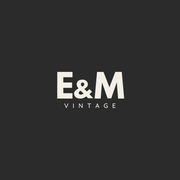
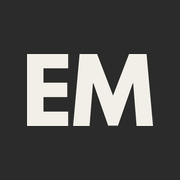
Rename the brand to EM
The ampersand and the word Vintage are gone from the wordmark, the page
titles, the footer, the photo caption and the comments. The Vinted handle
vintage-imparfait is untouched — it is an account name, not the brand.

The mark is not re-typeset: the E and the M are cut from the original logo
file at the coordinates measured in it, then set side by side with the same
letter gap the original used between its glyphs. The drawing, the weight and
the proportions are exactly those of the logo. The icons and the share image
are rebuilt from that mark, and the wordmark itself is kept as an asset.

Archivo's light weight only ever served the spaced VINTAGE capitals, so it is
dropped from the fonts loaded, and the hero's opening no longer waits for a
line that does not exist: the rule, the baseline and the brands each come in
about three tenths earlier.

Fixed while measuring: the first chapter starts exactly one screen down, so a
positive mount margin had its clip — over a megabyte since the move to 1080 —
downloading before a single scroll. The margin is negative now, and nothing
loads until the page is actually being read. Initial weight 362 KB against
996, Lighthouse mobile 95.

Claude-Session: https://claude.ai/code/session_01CeecgaP3zdLnK9r5rfFMhY

Changed region(s): [[0.1389, 0.2778, 0.8611, 0.7222]]

diff --git a/app/experience.css b/app/experience.css
@@ -26,21 +26,12 @@
 /* Le menu, lui, reste joignable dès le départ. Discret ne veut pas dire
    introuvable : sans lui, aucune navigation n'existe sur le premier écran.
    Il se pose simplement après l'intro, pour ne pas la couper. */
-.menu-btn { opacity: 0; animation: fade-in 0.7s ease 2.1s forwards; }
+.menu-btn { opacity: 0; animation: fade-in 0.7s ease 1.8s forwards; }
 :root[data-static] .menu-btn { opacity: 1; animation: none; }
 
 .masthead { left: var(--gutter); }
 .masthead__mark { display: flex; flex-direction: column; line-height: 1; }
 .masthead__em { font-family: var(--font-archivo), sans-serif; font-size: 17px; font-weight: 800; letter-spacing: -0.02em; }
-.masthead__vintage {
-  font-size: 7px;
-  font-weight: 300;
-  letter-spacing: 0.34em;
-  text-indent: 0.34em;
-  text-transform: uppercase;
-  opacity: 0.66;
-  margin-top: 2px;
-}
 
 .menu-btn {
   right: calc(var(--gutter) - 10px);
@@ -133,18 +124,6 @@
   animation: mark-open 0.72s var(--e-out) 0.1s forwards;
 }
 
-.mark__vintage {
-  font-family: var(--font-archivo), sans-serif;
-  margin-top: clamp(10px, 3vw, 18px);
-  font-size: clamp(0.66rem, 3.2vw, 1rem);
-  font-weight: 300;
-  text-transform: uppercase;
-  letter-spacing: 0.06em;
-  text-indent: 0.06em;
-  opacity: 0;
-  animation: vintage-open 0.9s var(--e-out) 0.62s forwards;
-}
-
 .hero__rule {
   display: block;
   width: min(62vw, 300px);
@@ -153,13 +132,13 @@
   background: currentColor;
   opacity: 0.28;
   transform: scaleX(0);
-  animation: rule-open 0.9s var(--e-out) 1s forwards;
+  animation: rule-open 0.9s var(--e-out) 0.72s forwards;
 }
 
 .hero__baseline {
   font-size: clamp(1.05rem, 4.8vw, 1.5rem);
   opacity: 0;
-  animation: rise 0.8s var(--e-out) 1.32s forwards;
+  animation: rise 0.8s var(--e-out) 1s forwards;
 }
 
 .hero__brands {
@@ -175,7 +154,7 @@
   letter-spacing: 0.16em;
   text-transform: uppercase;
   opacity: 0;
-  animation: fade-in 0.9s ease 1.72s forwards;
+  animation: fade-in 0.9s ease 1.35s forwards;
 }
 .hero__brands li { opacity: 0.58; }
 
@@ -189,13 +168,12 @@
   align-items: center;
   gap: 9px;
   opacity: 0;
-  animation: fade-in 0.8s ease 1.9s forwards;
+  animation: fade-in 0.8s ease 1.6s forwards;
 }
 .hero__hint-label { font-size: 9px; opacity: 0.5; }
 .hero__hint-line { width: 1px; height: 30px; background: currentColor; opacity: 0.3; transform-origin: top; animation: hint 2.4s ease-in-out 2.4s infinite; }
 
 @keyframes mark-open   { to { clip-path: inset(0 0 0 0); } }
-@keyframes vintage-open{ to { opacity: 1; letter-spacing: 0.34em; text-indent: 0.34em; } }
 @keyframes rule-open   { to { transform: scaleX(1); } }
 @keyframes rise        { from { opacity: 0; transform: translateY(12px); } to { opacity: 1; transform: none; } }
 @keyframes fade-in     { to { opacity: 1; } }
@@ -614,7 +592,6 @@
   .chapter { height: 150svh; }
   .chapter__caption { padding-bottom: clamp(70px, 14svh, 140px); }
   .masthead__em { font-size: 20px; }
-  .masthead__vintage { font-size: 8px; }
   .rail { right: 26px; }
   .foot { padding: 34px var(--gutter); }
 }
@@ -625,7 +602,6 @@
 :root[data-static] .chapter { height: auto; }
 :root[data-static] .chapter__sticky { position: relative; height: auto; min-height: 88svh; }
 :root[data-static] .mark__em { clip-path: none; animation: none; }
-:root[data-static] .mark__vintage { opacity: 1; letter-spacing: 0.34em; text-indent: 0.34em; animation: none; }
 :root[data-static] .hero__rule { transform: none; animation: none; }
 :root[data-static] .hero__baseline { opacity: 1; animation: none; }
 :root[data-static] .hero__brands {
@@ -649,7 +625,6 @@
 
 @media (prefers-reduced-motion: reduce) {
   .mark__em { clip-path: none; animation: none; }
-  .mark__vintage { opacity: 1; letter-spacing: 0.34em; text-indent: 0.34em; animation: none; }
   .hero__rule { transform: none; animation: none; }
   .hero__baseline { opacity: 1; animation: none; }
   .hero__brands {

diff --git a/app/layout.tsx b/app/layout.tsx
@@ -2,12 +2,11 @@ import type { Metadata, Viewport } from 'next';
 import { Archivo, DM_Sans, Instrument_Serif, League_Spartan } from 'next/font/google';
 import './globals.css';
 
-/* Archivo couvre le mot-symbole (wght 800) et les capitales espacées de
-   « VINTAGE » (wght 300) — exactement la construction du logo. Elle ne sert
-   qu'aux titres. */
+/* Archivo porte le mot-symbole et les titres, à la graisse du logo. La
+   graisse fine ne servait qu'aux capitales de « VINTAGE » : elle part avec. */
 const archivo = Archivo({
   subsets: ['latin'],
-  weight: ['300', '800'],
+  weight: ['800'],
   variable: '--font-archivo',
   display: 'swap',
 });
@@ -53,11 +52,11 @@ const SITE =
 
 export const metadata: Metadata = {
   metadataBase: new URL(SITE),
-  title: 'E&M Vintage — Vêtements de marque, seconde main',
+  title: 'EM — Vêtements de marque, seconde main',
   description:
     'Ralph Lauren, Tommy Hilfiger, Lacoste, Patagonia, The North Face. Des pièces triées, lavées, repassées et photographiées une par une, en Vendée.',
   openGraph: {
-    title: 'E&M Vintage — Vêtements de marque, seconde main',
+    title: 'EM — Vêtements de marque, seconde main',
     description: 'Triées, lavées, repassées, photographiées une par une. En Vendée.',
     locale: 'fr_FR',
     type: 'website',

diff --git a/components/chapters/ChapterMedia.tsx b/components/chapters/ChapterMedia.tsx
@@ -38,15 +38,19 @@ export default function ChapterMedia({ chapter }: { chapter: Chapter }) {
     const el = ref.current;
     if (!el || !hasVideo || saveData() || reduced()) return;
 
-    // Monte la vidéo un écran à l'avance : elle a le temps de se charger,
-    // et les chapitres lointains ne coûtent rien.
+    // Le premier chapitre commence exactement à un écran du haut : avec une
+    // marge positive, son clip — plus d'un méga depuis le passage en 1080 —
+    // partait avant même le premier geste de scroll. La marge est donc
+    // négative : rien ne se charge tant qu'on n'a pas commencé à descendre.
+    // Il reste ensuite près d'un écran de défilement avant que le chapitre
+    // occupe la page, largement de quoi être prêt.
     const mount = new IntersectionObserver(
       (entries) => {
         if (!entries.some((e) => e.isIntersecting)) return;
         setMounted(true);
         mount.disconnect();
       },
-      { rootMargin: '100% 0px' },
+      { rootMargin: '0px 0px -15% 0px' },
     );
     mount.observe(el);
     return () => mount.disconnect();

diff --git a/components/chrome/Masthead.tsx b/components/chrome/Masthead.tsx
@@ -2,9 +2,8 @@
 export default function Masthead() {
   return (
     <header className="masthead" data-masthead>
-      <a className="masthead__mark" href="#top" aria-label="E&amp;M Vintage — retour en haut">
-        <span className="masthead__em">E&amp;M</span>
-        <span className="masthead__vintage">Vintage</span>
+      <a className="masthead__mark" href="#top" aria-label="EM — retour en haut">
+        <span className="masthead__em">EM</span>
       </a>
     </header>
   );

diff --git a/components/hero/Hero.tsx b/components/hero/Hero.tsx
@@ -9,8 +9,7 @@ export default function Hero() {
     <section className="hero" data-hero>
       <div className="hero__inner">
         <h1 className="mark" data-hero-mark>
-          <span className="mark__em">E&amp;M</span>
-          <span className="mark__vintage">Vintage</span>
+          <span className="mark__em">EM</span>
         </h1>
 
         <span className="hero__rule" aria-hidden="true" />

diff --git a/content/pages.ts b/content/pages.ts
@@ -38,7 +38,7 @@ export const ABOUT: PageContent = {
       ],
       img: {
         id: 'local-atelier',
-        alt: `Le local d’E&M Vintage : portants, étagères de pièces pliées, fond blanc et mannequins pour la prise de vue.`,
+        alt: `Le local d’EM : portants, étagères de pièces pliées, fond blanc et mannequins pour la prise de vue.`,
         w: 1280,
         h: 960,
       },

diff --git a/components/sections/Proof.tsx b/components/sections/Proof.tsx
@@ -2,7 +2,7 @@ import { REVIEWS, STATS } from '@/content/site';
 
 /**
  * Preuve sociale, volontairement compacte : elle ne doit pas retarder le
- * choix de taille. Chiffres fournis par E&M, avis transcrits mot pour mot
+ * choix de taille. Chiffres fournis par EM, avis transcrits mot pour mot
  * depuis Vinted.
  */
 export default function Proof() {

diff --git a/app/globals.css b/app/globals.css
@@ -1,5 +1,5 @@
 /* ---------------------------------------------------------------
-   Système EM Vintage — les deux couleurs viennent du logo
+   Système EM — les deux couleurs viennent du logo
    (échantillonnées au pixel : fond #2B2B2B, crème #F1EFE7).
    --------------------------------------------------------------- */
 :root {

diff --git a/content/site.ts b/content/site.ts
@@ -25,7 +25,7 @@ export const LOCAL = {
 
 /**
  * Avis clients, transcrits mot pour mot depuis les captures Vinted fournies
- * par E&M — fautes et emoji compris. On ne réécrit pas un avis : c'est ce
+ * par EM — fautes et emoji compris. On ne réécrit pas un avis : c'est ce
  * qui le rend crédible.
  */
 export const REVIEWS = [

diff --git a/app/a-propos/page.tsx b/app/a-propos/page.tsx
@@ -4,7 +4,7 @@ import PageBody from '@/components/content/PageBody';
 import { ABOUT } from '@/content/pages';
 
 export const metadata: Metadata = {
-  title: 'À propos — E&M Vintage',
+  title: 'À propos — EM',
   description: 'Quatre ans, un local de 100 m² en Vendée, 40 000 articles remis en circulation.',
 };
 

diff --git a/app/faq/page.tsx b/app/faq/page.tsx
@@ -4,7 +4,7 @@ import PageBody from '@/components/content/PageBody';
 import { FAQ } from '@/content/pages';
 
 export const metadata: Metadata = {
-  title: 'FAQ — E&M Vintage',
+  title: 'FAQ — EM',
   description: 'Lavage, authenticité, défauts, expédition, vente sur place : les questions qui reviennent.',
 };
 

diff --git a/components/chrome/SiteFooter.tsx b/components/chrome/SiteFooter.tsx
@@ -9,7 +9,7 @@ import { PAGES } from '@/content/pages';
 export default function SiteFooter() {
   return (
     <footer className="foot">
-      <span className="foot__mark">E&amp;M</span>
+      <span className="foot__mark">EM</span>
       <nav aria-label="Pages secondaires">
         {PAGES.map((p) => (
           <a
